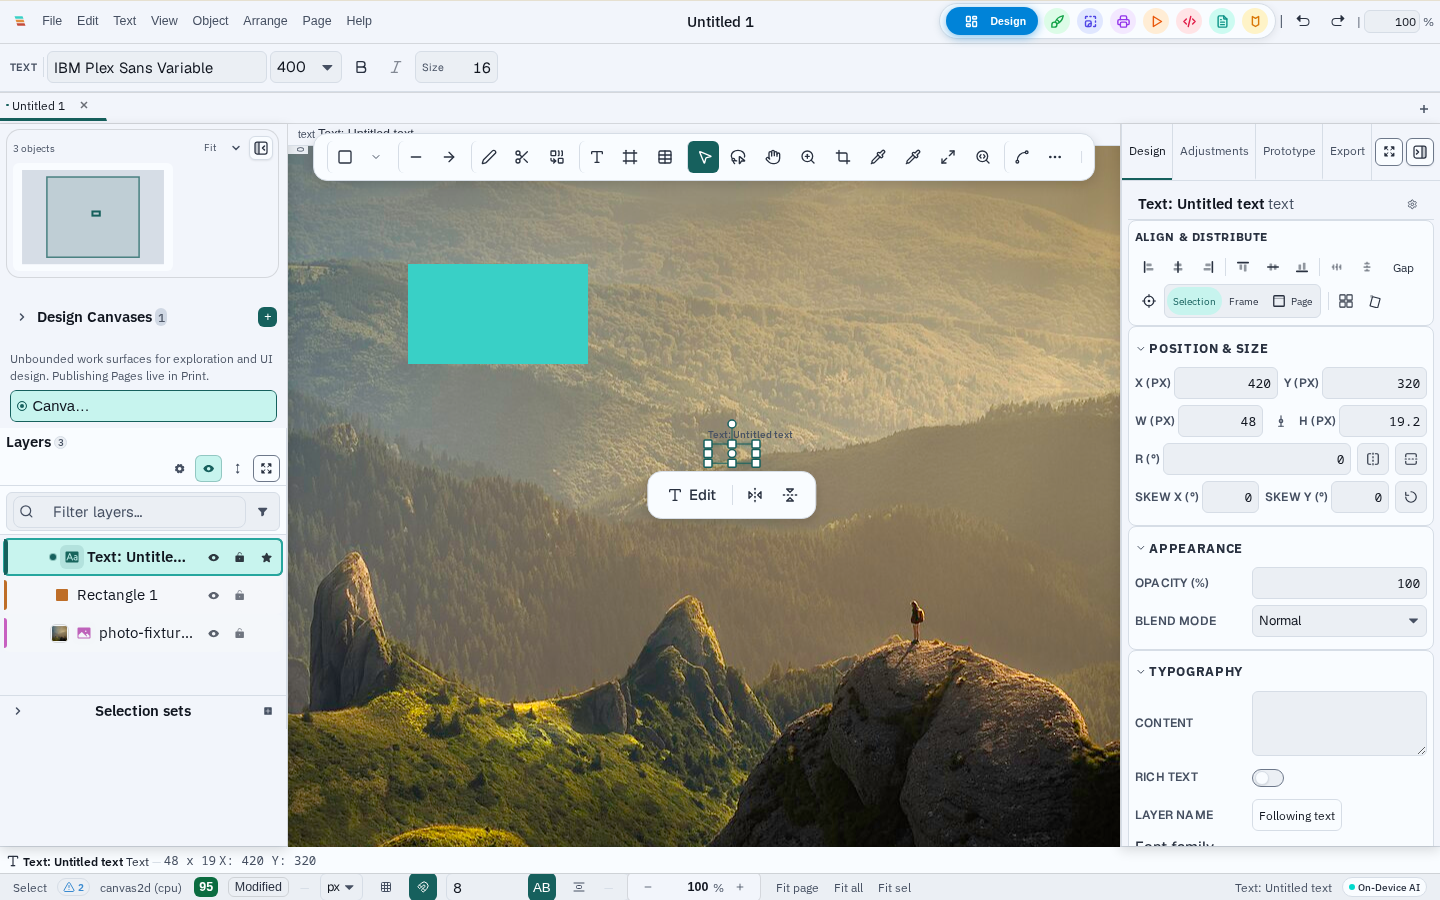
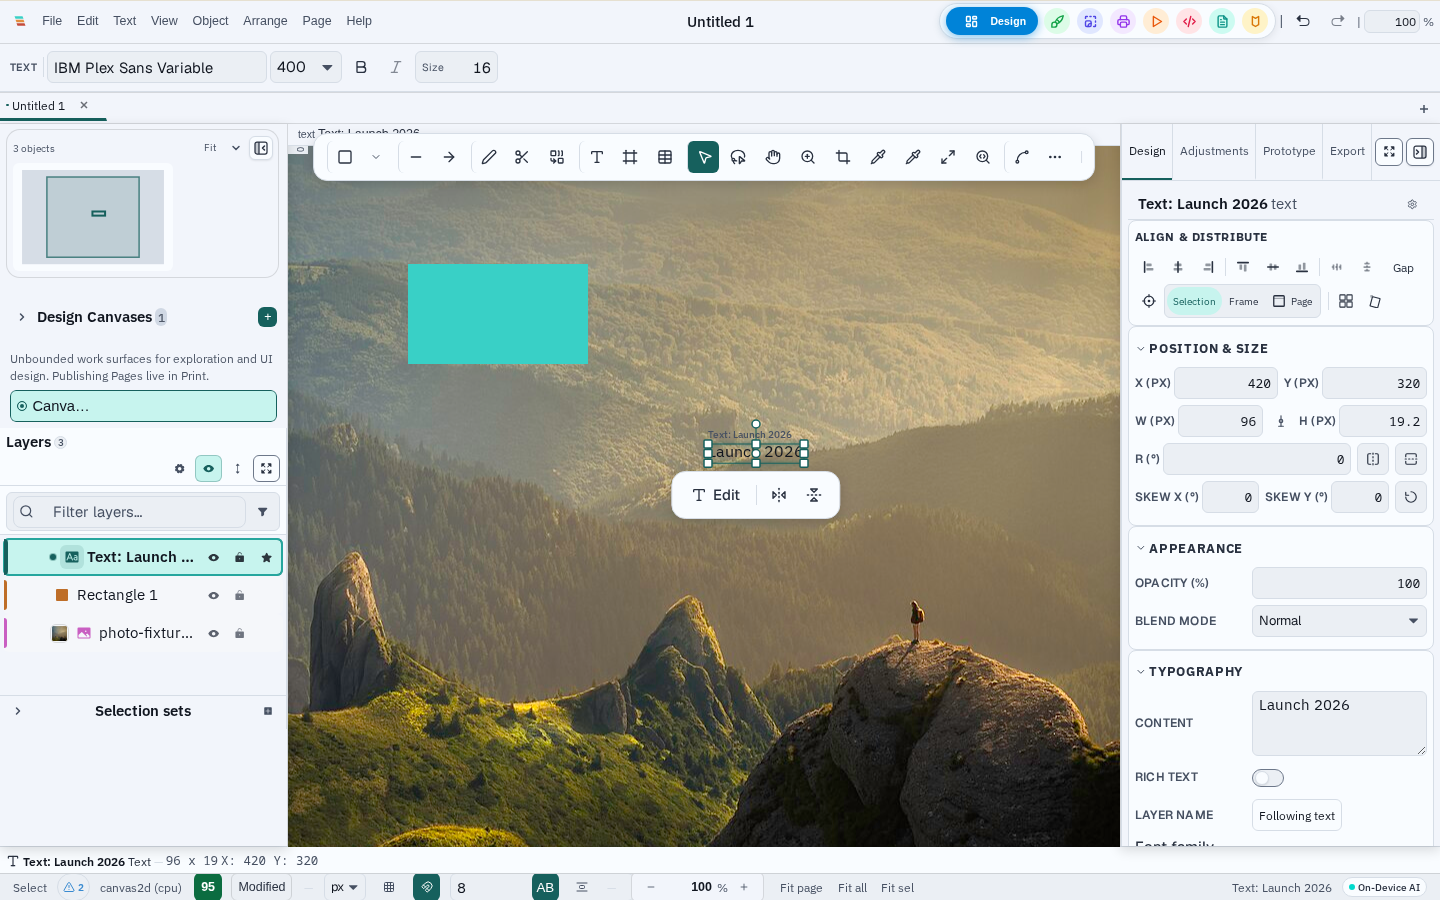
test(toolbar): green the follow-up spec and refresh reviewed evidence

diff --git a/tests/e2e/canvas/toolbar-followup.spec.ts b/tests/e2e/canvas/toolbar-followup.spec.ts
@@ -274,14 +274,25 @@ test.describe('Toolbar follow-up — combined journey', () => {
       timeout: 10000,
     });
 
-    // Switch placement, then verify document undo/redo does not disturb it.
+    // Switch placement, then verify document undo/redo does not disturb it
+    // and that the typed content round-trips. Drive history through the Edit
+    // menu: the keyboard chord after a menubar click is not reliably handled
+    // from menu focus, which made an earlier version of this step vacuous.
     await openMenu(page, 'View');
     await page.locator(VIEW_MENU).getByRole('menuitemradio', { name: 'Toolbar at Top' }).click();
     await expect(page.locator(PALETTE)).toHaveAttribute('data-placement', 'top');
-    await page.keyboard.press('Control+z');
-    await page.keyboard.press('Control+Shift+z');
+
+    const editMenu = '[role="menu"][aria-label="Edit"]';
+    await openMenu(page, 'Edit');
+    await page.locator(editMenu).getByRole('menuitem', { name: /^Undo/ }).click();
+    await openMenu(page, 'Edit');
+    await page.locator(editMenu).getByRole('menuitem', { name: /^Redo/ }).click();
+
     await expect(page.locator(PALETTE)).toHaveAttribute('data-placement', 'top');
     await expect(page.getByRole('treeitem')).toHaveCount(3);
+    await expect(page.getByRole('treeitem', { name: /Text: Launch 2026/i })).toBeVisible({
+      timeout: 10000,
+    });
 
     await page.screenshot({ path: testInfo.outputPath('combined-journey-1440x900.png') });
 

diff --git a/docs/audits/toolbar-followup-2026-09-15.md b/docs/audits/toolbar-followup-2026-09-15.md
@@ -222,33 +222,34 @@ The new E2E spec (`tests/e2e/canvas/toolbar-followup.spec.ts`) covers the
 placement radio pair and persistence, the status-bar geometry/targets across
 six widths, the quick-bar keyboard contract and duplication suppression, and a
 combined journey (photo + drawn shape + live text, a size edit, placement
-switch, document undo/redo leaving placement alone, reload).
+switch, Edit-menu undo/redo round-trip, reload).
 
-Environment notes that explain most of the run history: the shared `/tmp`
-tmpfs filled to 100% (Chromium's profile and shared memory live there), which
-crashed renderers during navigation and even in Playwright's global setup —
-pointing `TMPDIR` at the main filesystem fixed that class. The machine ran
-5–8 concurrent agent dev servers throughout, and other sessions' in-flight
-sources were occasionally mid-edit (a Vite `PARSE_ERROR` in
-`BatchBgRemoveDialog.tsx` appeared during one run). Runs were serialized
-through the heavy-task lease, which was itself queued behind another
-session's E2E for up to 10 minutes at a time.
+**Final clean run (2026-09-15 18:20, port 1673, one worker): 4 passed in
+2.3 minutes** — palette placement 37.7s, status bar 17.7s, quick bar 16.2s,
+combined journey 40.2s. A follow-up single-test run confirmed the journey's
+deterministic history step (Edit menu Undo → Redo restores the typed content;
+the keyboard chord after a menubar click was not reliably handled from menu
+focus, which had made an earlier version of that step vacuous).
 
-Results per test, after the fixes each iteration surfaced:
+Evidence:
+`docs/screenshots/2026-09-15-toolbar-followup/palette-at-top-with-view-menu-1440x900.png`
+(placement, radio state, grouped View root) and `combined-journey-1440x900.png`
+(complete document: photo + rectangle + live text "Launch 2026", palette at
+top, status bar).
 
-| Test | Status | Notes |
-|---|---|---|
-| Palette placement | **passed** (run 1623, 40.3s; also run 1637) | Radio states, canvas-cell geometry, document undo untouched, reload persistence, reset. Screenshot: `docs/screenshots/2026-09-15-toolbar-followup/palette-at-top-with-view-menu-1440x900.png`. |
-| Status bar row/target geometry | **passed** (run 1637) | The browser measurement found six sub-24px controls across two iterations (debt/score/save badges and fit buttons, then the 23px-wide score badge); all fixed, then clean at 1440/1280/1024/900/768/640. |
-| Text quick bar keyboard + duplication | **passed** (run 1641, 17.9s) | One tab stop, arrows move it, disabled Italic skipped, size field keeps native arrows, context bar shows the pointer instead of a second control set. |
-| Combined journey | **passed with the original assertions** (run 1623, 57.9s); the strengthened variant (full content plus the size-confirmation session regression) repeatedly hit renderer crashes on the loaded machine — `page.goto: Page crashed`, a reload crash, and `Target crashed` mid-drag — never an assertion failure. The defect its new assertions cover is unit-tested in `FloatingTextBar.test.tsx`. | Screenshot `combined-journey-1440x900.png` is from the run-1623 pass (before the test-flow corrections); a fresh capture needs one clean machine window. |
-
-The spec itself was corrected several times as it found real behavior:
-the bar element *is* the toolbar; roving focus must be demonstrated on
-enabled buttons (the default font has no italic face); the status-bar
-geometry check must skip ancestor-hidden controls; Escape in the size field
-cancels the draft before it closes; and confirming a size keeps the session
-alive only after the P1 fix.
+Earlier runs (recorded because they explain the fixes): the shared `/tmp`
+tmpfs filled to 100% — Chromium's profile and shared memory live there —
+and crashed renderers during navigation and in Playwright's global setup
+until runs used `TMPDIR` on the main filesystem. Under 5–8 concurrent agent
+dev servers, other sessions' in-flight sources were occasionally mid-edit
+(a Vite `PARSE_ERROR` in `BatchBgRemoveDialog.tsx` appeared during one run),
+and the heavy-task lease was queued behind another session's E2E for up to 10
+minutes. Those runs nevertheless surfaced the real defects now fixed: six
+sub-24px status-bar controls across two iterations, the P1 session-lifetime
+bug in the size field, and four test-flow corrections (the bar element *is*
+the toolbar; roving focus needs enabled buttons because the default font has
+no italic face; the geometry check must skip ancestor-hidden controls; Escape
+in the size field cancels the draft before it closes).
 
 ## External failure evidence (summary)
 
